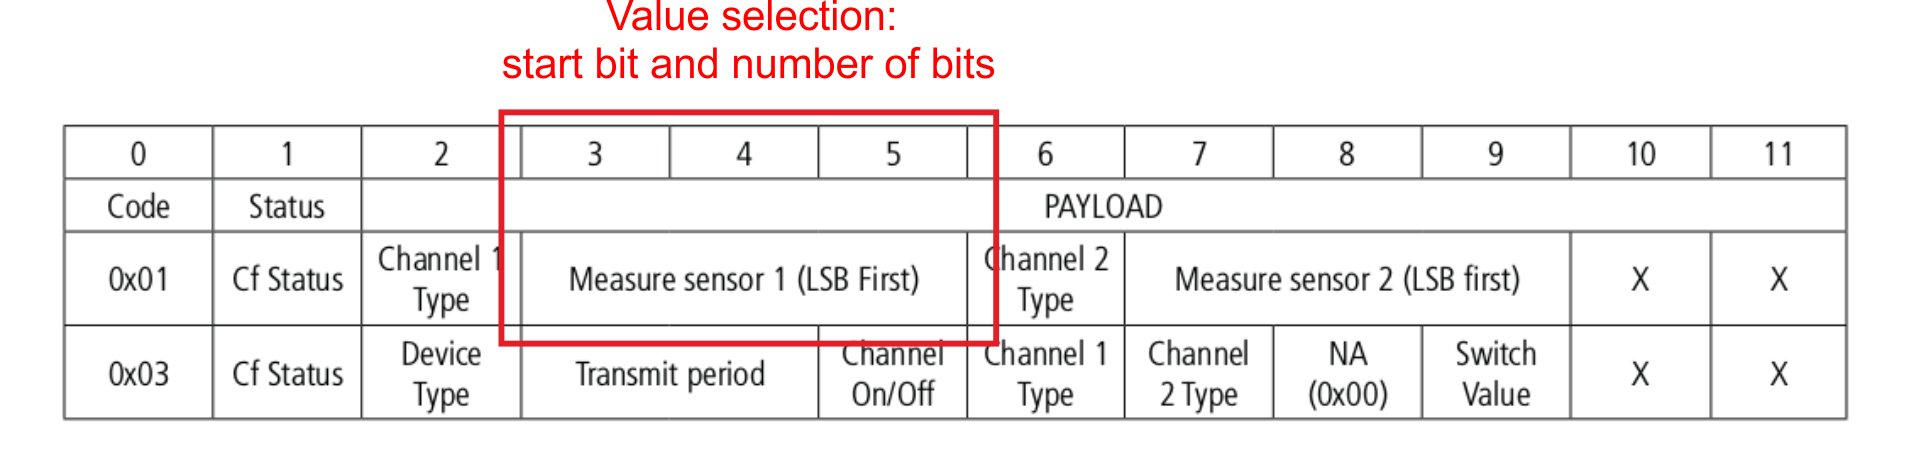
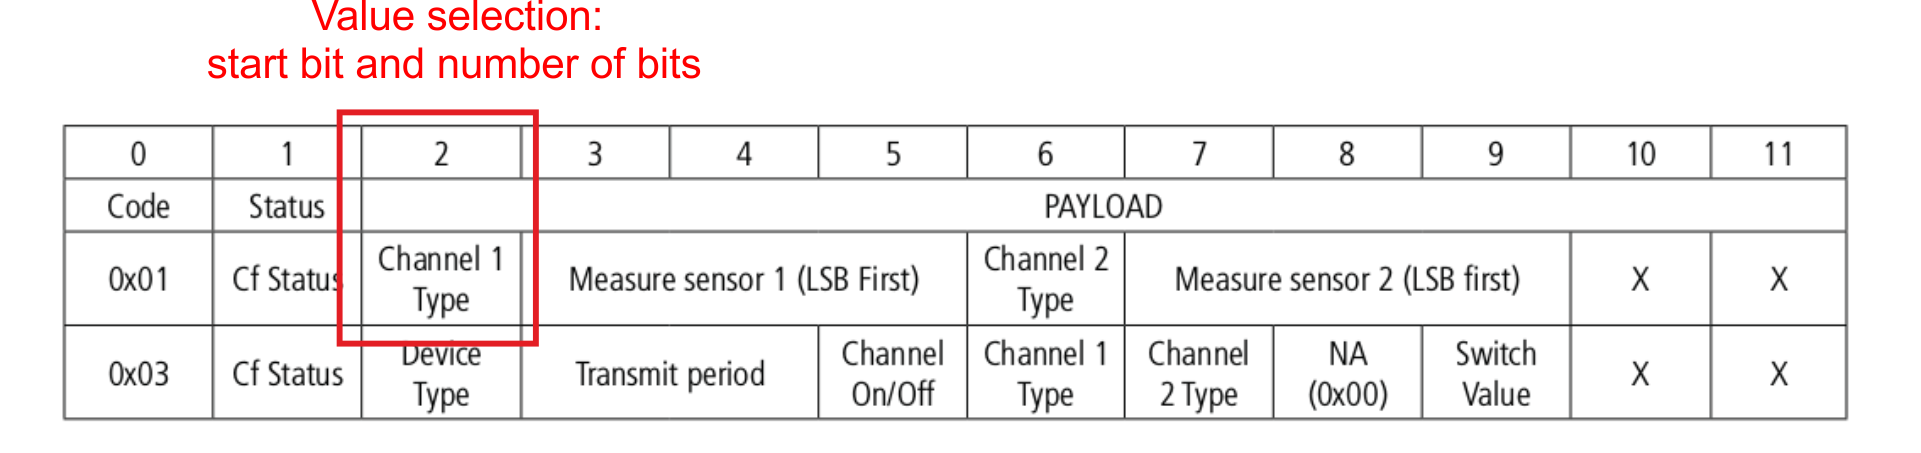
added/updated 3 more screenshots

Changed region(s): [[0.1562, 0.2163, 0.531, 0.7726], [0.0937, 0.0927, 0.531, 0.1854], [0.1562, 0.0, 0.4685, 0.0927]]

diff --git a/src/documents/guides/users-guide/LoRa.html.md b/src/documents/guides/users-guide/LoRa.html.md
@@ -73,7 +73,7 @@ Alternatively you may also load the device type from a file and import it. The f
 
 ### <a name="create-new-device-type"></a>Creating a new device type
 
-In the device database window, click the "New" button. 
+In the device database window, click the "New" button. The following window will open:
 
 <img src="/guides/users-guide/actility/deviceDatabase-createNew.png" alt="Create new device type" style="max-width: 100%">
 
@@ -98,7 +98,7 @@ Click the "Add" button to create the value configuration.
 
 <img src="/guides/users-guide/actility/deviceDatabase1a.png" alt="Device type: new" style="max-width: 100%">
 
-A window similar to the following one will open. Enter the relevant information as shown in this example. 
+A window similar to the following one will open. Configure the relevant values as shown in this example. 
 
 <img src="/guides/users-guide/actility/deviceDatabase4.png" alt="Value configuration: new" style="max-width: 60%">
 
@@ -106,9 +106,11 @@ The value configuration maps the value in the payload of a message type to the C
 
 Configure the "Message ID" according to your device message specification and map it to the Cumulocity data. The message ID is the numeric value identifying the message type. It will be matched with the message ID found in the source specified on the device type main page (i.e. Payload or FPort). The message ID needs to be entered in decimal numbers (not hex).
 
-In this example the message ID is "1".
+In this example payload structure the message ID is "1".
 
 <img src="/guides/users-guide/actility/payload-example2.png" alt="Example payload: message type source" style="max-width: 100%">
+
+<img src="/guides/users-guide/actility/deviceDatabase4a.png" alt="Value configuration: message type" style="max-width: 60%">
 
 Fill in the general fields for your new value in order to categorize it in the "Values" list. The associated "Name" for this value will be displayed under the "Display category" given.
 
@@ -116,7 +118,9 @@ Under "Value selection" define from where the value should be extracted. In orde
 
 In this example the "Channel 1 Type" information starts in byte 2 (i.e. start bit = "16") and is 1 byte long (i.e. number of bits = "8").
 
-<img src="/guides/users-guide/actility/payload-example3.png" alt="Example payload: message type source" style="max-width: 100%">
+<img src="/guides/users-guide/actility/payload-example3.png" alt="Example payload: value selection" style="max-width: 100%">
+
+<img src="/guides/users-guide/actility/deviceDatabase4b.png" alt="Value selection" style="max-width: 100%">
 
 Under "Value normalisation" define how the raw value should be transformed before being stored in the platform and enter the appropriate values for:
 
